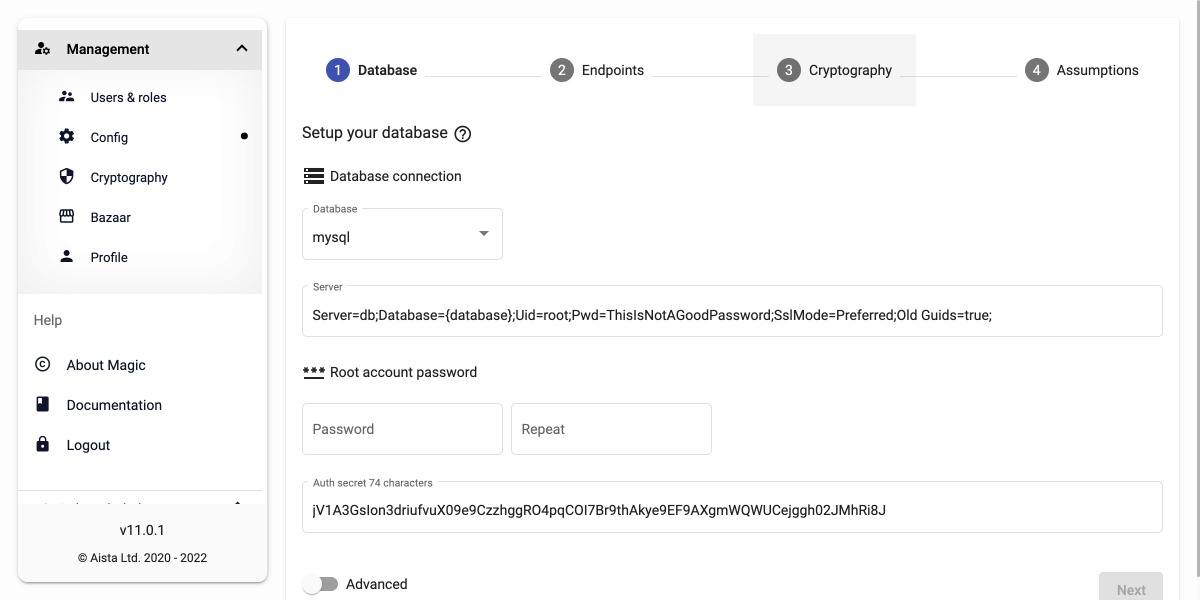
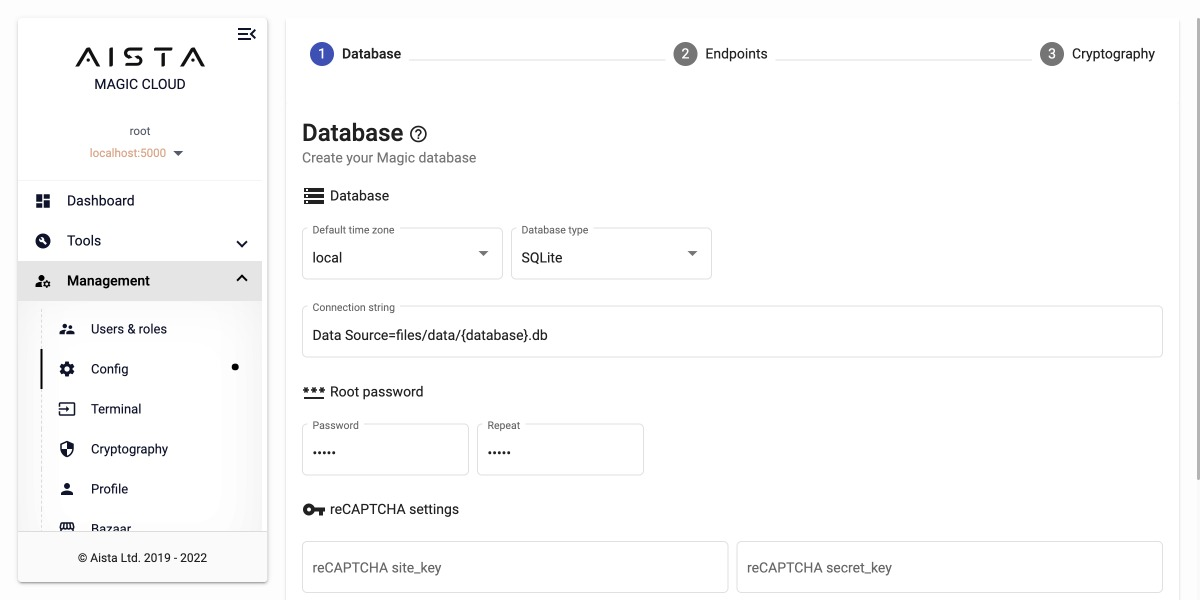
Bettering

diff --git a/documentation/magic/components/config/setup-database/index.md b/documentation/magic/components/config/setup-database/index.md
@@ -6,22 +6,35 @@ og_image: "https://raw.githubusercontent.com/polterguy/polterguy.github.io/maste
 
 # Create your Magic database
 
-Before you can use Magic, you need to create your Magic database. Magic needs an internal database to function correctly.
+Before you can use Magic, you need to create your Magic database. Magic needs an internal database to function.
 This database is used to store users, roles, scheduled tasks, log items, etc, and during the setup process Magic will ask
-you for a valid connection string to a MySQL, PostgreSQL or SQL Server database where it will create this database.
+you for a valid connection string to a MySQL, PostgreSQL, SQLite, or SQL Server database where it will create this database.
 Below is a screenshot of the component.
 
 ![Creating your Magic database](https://raw.githubusercontent.com/polterguy/polterguy.github.io/master/images/og-setup-database.jpg)
 
 The database connection string you choose in this process will become your default database, so it's important that you _keep_
-the `{database}` parts exactly as it is. Magic will substitute this part of your connection string with your database of choice
-when you create database connections, implying if you change this part of your connection string Magic will not work correctly.
+the `{database}` parts exactly as it is. Magic will substitute the `{database}` part of your connection string with your database
+of choice when you create database connections, implying if you change this part of your connection string Magic will not
+work correctly.
 
 When Magic has created its database it will create a _"root_" user in this database using the password of your choice, and
 secure your authentication module by saving your _"auth secret"_ into your _"appsettings.json"_ file. To ensure Magic is
 secured correctly it is important that you keep your root user's password a secret, and create a strong password - In addition
-to that you never share your _"auth secret"_ with anyone.
+to that you never share your _"auth secret"_ with anyone. If you are super paranoid, you can manually add characters to your
+_"Auth secret"_ by typing random characters into it using your keyboard. A good auth secret should at least contain 80
+random characters to provide sufficient entropy for the JWT authentication module.
 
+The _"Default time zone"_ parts allows you to associate a default time zone with dates not explicitly declaring a time zone,
+and simplifies consumption of your Magic backend, since it will automatically assume date objects are from the specified
+time zone if no time zone information is available in your date object. Legal values for this is as follows.
+
+* _"None"_ - No default time zone assumptions about your date objects
+* _"UTC"_ - All date objects without an explicit time zone is assumed to be in UTC time zone
+* _"Local"_ - All date objects without an explicit time zone is assumed to be in your server's local time zone
+
+The _"reCAPTCHA"_ setting allows you to declare a default reCAPTCHA site-key and secret for your backend, allowing
+you to implement reCAPTCHA validaton more easily on your server.
 
 * [Back to configuration](/documentation/magic/components/config/)
 * [Back to middleware documentation](/documentation/magic/)
